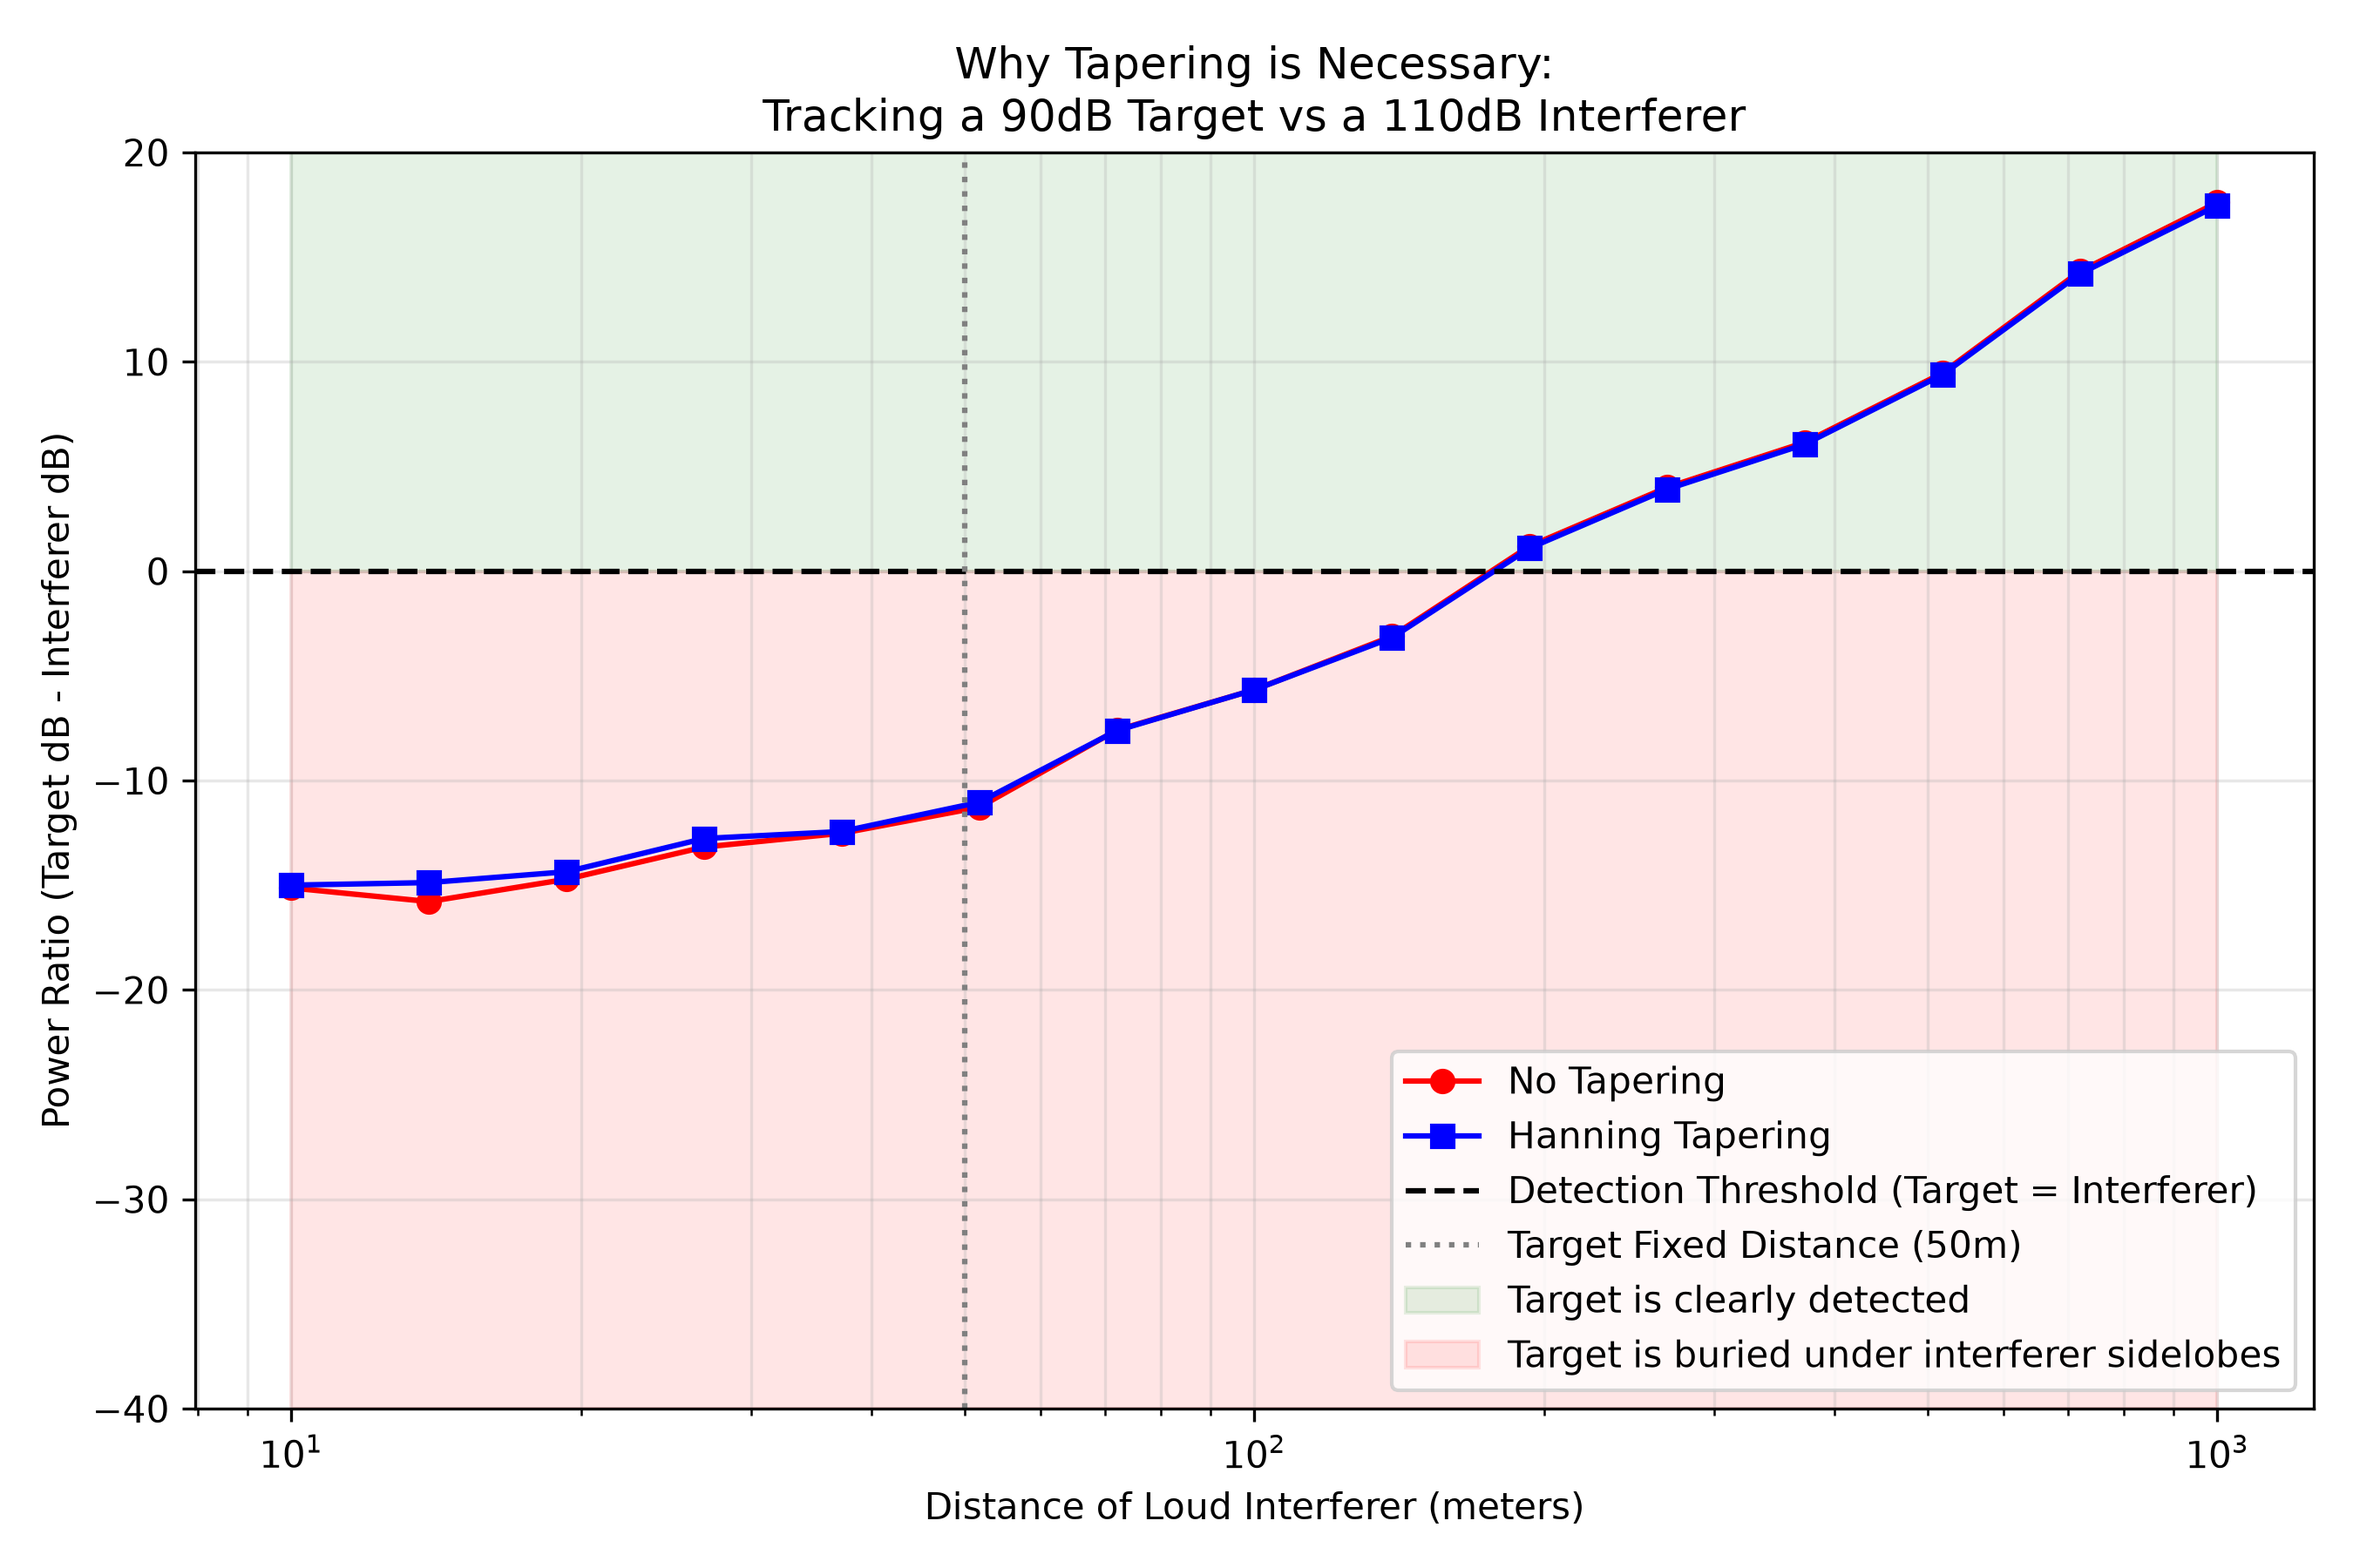
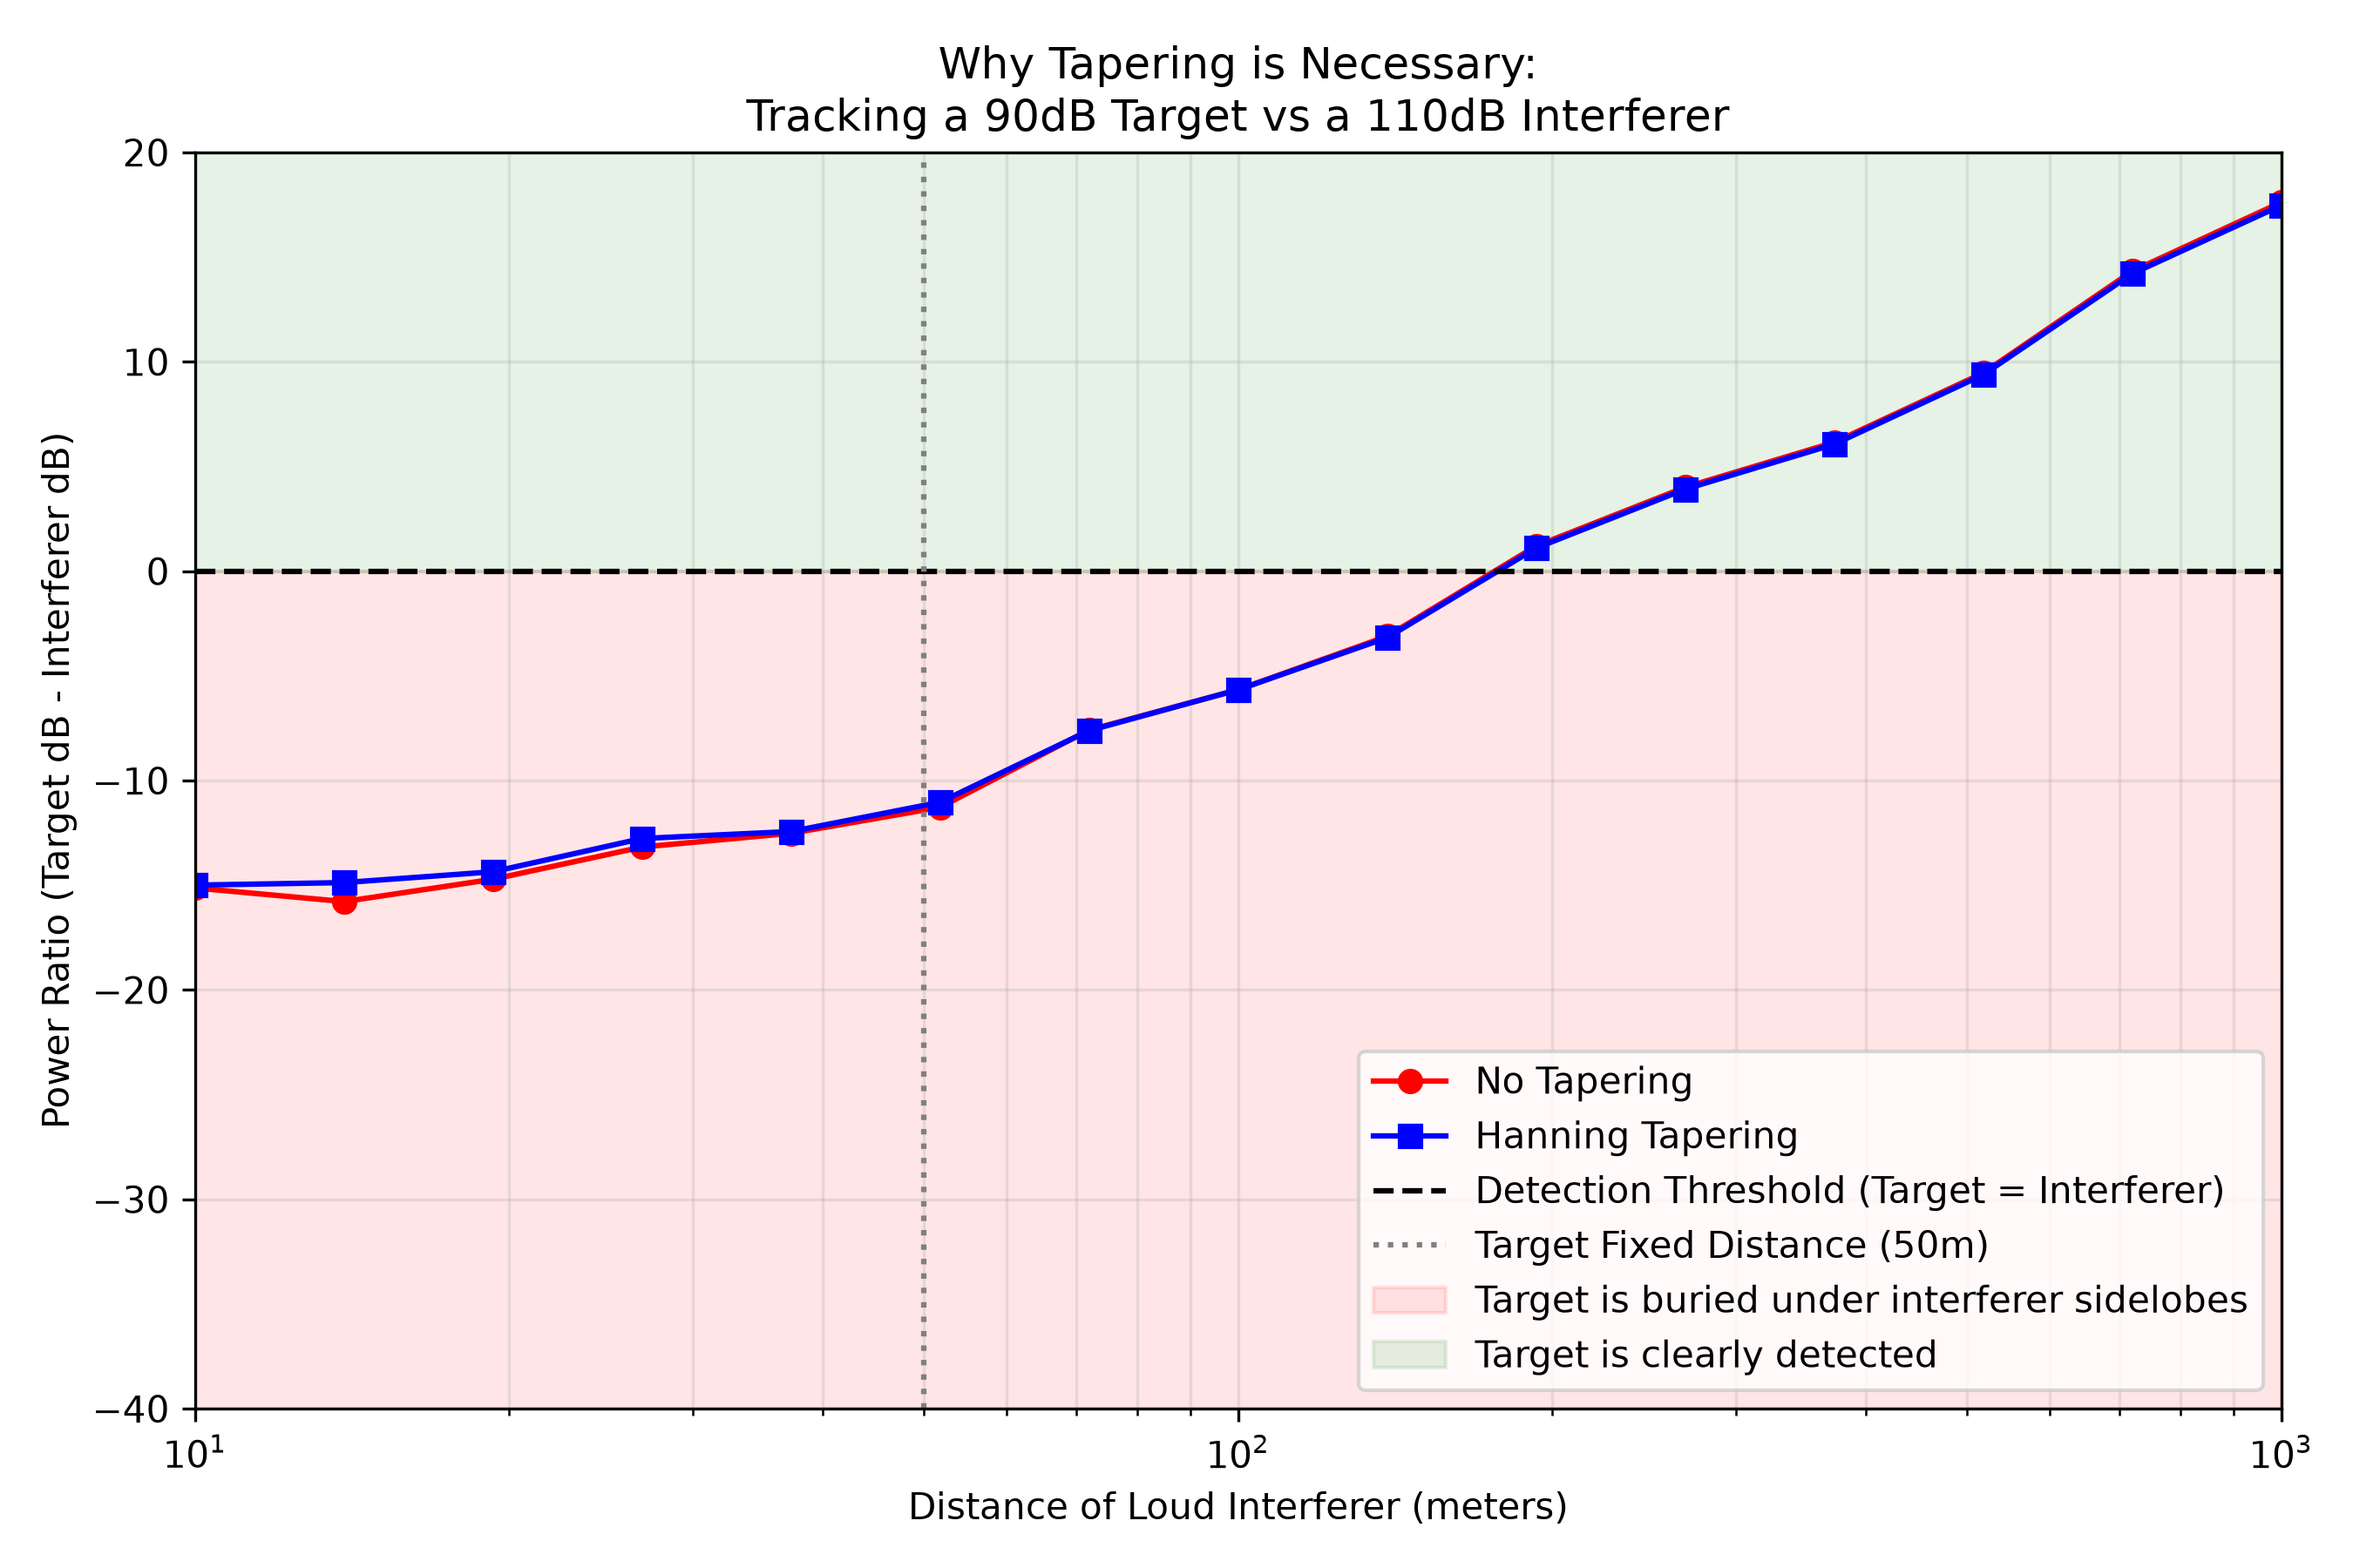
feat: update interferer and wind plots to 'decision matrix' style
- Updated `generate_interferer_plots.py` and `generate_engineering_plots.py` (wind plots) to use color-shaded 'decision matrix' style visualisations.
- Shaded regions (e.g. green for clear detection, red for failure) clearly delineate operational range based on thresholds.
- Addressed user feedback to make these scenarios match the highly praised 'SNR Decision Matrix' style, improving actionability.

diff --git a/experiments/generate_interferer_plots.py b/experiments/generate_interferer_plots.py
@@ -78,8 +78,9 @@ def generate_moving_interferer_scenario(out_dir):
     plt.axhline(0.0, color='k', linestyle='--', label='Detection Threshold (Target = Interferer)')
     plt.axvline(50.0, color='gray', linestyle=':', label='Target Fixed Distance (50m)')
 
-    plt.fill_between([10, 1000], 0, 40, color='green', alpha=0.1, label='Target is clearly detected')
-    plt.fill_between([10, 1000], -40, 0, color='red', alpha=0.1, label='Target is buried under interferer sidelobes')
+    # Add colored shaded regions
+    plt.axhspan(-40, 0, color='red', alpha=0.1, label='Target is buried under interferer sidelobes')
+    plt.axhspan(0, 40, color='green', alpha=0.1, label='Target is clearly detected')
 
     plt.xlabel('Distance of Loud Interferer (meters)')
     plt.ylabel('Power Ratio (Target dB - Interferer dB)')
@@ -87,14 +88,99 @@ def generate_moving_interferer_scenario(out_dir):
     plt.legend(loc='lower right')
     plt.grid(True, which="both", alpha=0.3)
     plt.ylim(-40, 20)
+    plt.xlim(10, 1000)
     plt.tight_layout()
     plt.savefig(os.path.join(out_dir, 'interferer_distance_scenario.png'), dpi=300)
+    plt.close()
+
+def generate_interferer_operational_range_plot(out_dir):
+    """
+    Shows how the operational range (Trust/Fail regions) shifts when an interferer is present,
+    and how Tapering recovers the Trust region.
+    Similar style to SNR Decision Matrix.
+    """
+    print("Generating Interferer Operational Range Plot...")
+    np.random.seed(42)
+    N = 64
+    spacing = 0.15
+    arr = ArrayGeometry([i * spacing for i in range(8) for j in range(8)],
+                        [j * spacing for i in range(8) for j in range(8)])
+
+    fs = 16000
+    freq = 1000.0
+    sig = tone_burst(freq, 0.05, fs)
+
+    target_az = 0.0
+    target_el = 0.0
+    target_dist = 50.0
+    target_spl = 90.0
+
+    interf_az = 45.0
+    interf_el = 0.0
+    interf_spl = 110.0 # Very loud interferer
+
+    interf_distances = np.logspace(1, 3, 20) # 10m to 1000m
+    env = {'c': 343.0, 'temp_c': 20.0, 'rel_humidity': 50.0, 'pressure_kpa': 101.325,
+           'ground_effect_loss_db': 0.0, 'shadowing_std_db': 0.0}
+
+    grid_az = np.linspace(-90, 90, 90)
+    grid_el = np.array([0.0])
+
+    target_idx = np.argmin(np.abs(grid_az - target_az))
+    interf_idx = np.argmin(np.abs(grid_az - interf_az))
+
+    ratio_none = []
+    ratio_hanning = []
+
+    w_none = arr.get_spatial_weights('none')
+    w_hanning = arr.get_spatial_weights('hanning')
+
+    for d_int in interf_distances:
+        dir_noise = {"enabled": True, "spl_db": interf_spl, "az": interf_az, "el": interf_el, "r": d_int}
+        rec = synthesize_array_recording(arr, sig, target_az, target_el, target_dist, target_spl, fs, 20.0, freq, env, directional_noise=dir_noise)
+
+        # No Tapering
+        pm_none = delay_and_sum(rec, arr, fs, grid_az, grid_el, c=343.0, spatial_weights=w_none)
+        db_none = 10 * np.log10(pm_none[0] + 1e-15)
+        ratio_none.append(db_none[target_idx] - db_none[interf_idx])
+
+        # Hanning
+        pm_han = delay_and_sum(rec, arr, fs, grid_az, grid_el, c=343.0, spatial_weights=w_hanning)
+        db_han = 10 * np.log10(pm_han[0] + 1e-15)
+        ratio_hanning.append(db_han[target_idx] - db_han[interf_idx])
+
+    plt.figure(figsize=(10, 6))
+
+    plt.semilogx(interf_distances, ratio_none, 'r-o', label='No Tapering (Target - Interferer Power)')
+    plt.semilogx(interf_distances, ratio_hanning, 'b-s', label='Hanning Tapering (Target - Interferer Power)')
+
+    plt.axhline(0.0, color='k', linestyle='--', label='Detection Threshold (0 dB)')
+
+    # Calculate cross-over points
+    cross_none = np.interp(0, np.array(ratio_none), interf_distances) if np.max(ratio_none) > 0 else 1000
+    cross_han = np.interp(0, np.array(ratio_hanning), interf_distances) if np.max(ratio_hanning) > 0 else 1000
+
+    # We want to show regions on the x-axis for "Hanning Tapering"
+    plt.axvspan(10, cross_none, color='red', alpha=0.2, label='Complete Failure (No Tapering)')
+    plt.axvspan(cross_none, cross_han, color='yellow', alpha=0.2, label='Recovered by Tapering')
+    plt.axvspan(cross_han, 1000, color='green', alpha=0.2, label='High Confidence (Clear Detection)')
+
+    plt.xlabel('Distance of Loud Interferer (meters)')
+    plt.ylabel('Power Ratio (Target dB - Interferer dB)')
+    plt.title('Interferer Decision Matrix: Operational Range vs Interferer Distance\n(Target Fixed at 50m, 90dB SPL)')
+    plt.legend(loc='lower right')
+    plt.grid(True, which="both", alpha=0.3)
+    plt.ylim(-40, 20)
+    plt.xlim(10, 1000)
+    plt.tight_layout()
+    plt.savefig(os.path.join(out_dir, 'interferer_decision_matrix.png'), dpi=300)
     plt.close()
 
 def main():
     out_dir = os.path.abspath(os.path.join(os.path.dirname(__file__), '..', 'docs', 'figures'))
     os.makedirs(out_dir, exist_ok=True)
     generate_moving_interferer_scenario(out_dir)
+    generate_interferer_operational_range_plot(out_dir)
     print("Done generating interferer plots.")
 
 if __name__ == '__main__':

diff --git a/experiments/generate_engineering_plots.py b/experiments/generate_engineering_plots.py
@@ -139,11 +139,77 @@ def generate_wind_tapering_scenario(out_dir):
     plt.savefig(os.path.join(out_dir, 'wind_tapering_scenario.png'), dpi=300)
     plt.close()
 
+def generate_wind_operational_range_plot(out_dir):
+    """
+    Shows how wind interference affects the Trust/Fail regions similar to the SNR matrix.
+    We plot PAPR vs Wind Interference Azimuth, shading regions where the Target is trusted vs lost.
+    """
+    print("Generating Wind Operational Range Plot...")
+    np.random.seed(42)
+    N = 64
+    grid_dim = 8
+    spacing = 0.15
+    arr = ArrayGeometry([i * spacing for i in range(grid_dim) for j in range(grid_dim)],
+                        [j * spacing for i in range(grid_dim) for j in range(grid_dim)])
+
+    fs = 48000
+    freq = 1500.0
+    sig = tone_burst(freq, 0.05, fs)
+
+    target_az = 30.0
+    target_el = 0.0
+
+    wind_az_sweep = np.linspace(0, 90, 50)
+
+    env = {'c': 343.0, 'temp_c': 20.0, 'rel_humidity': 50.0, 'pressure_kpa': 101.325}
+    grid_az = np.linspace(-90, 90, 90)
+    grid_el = np.array([0.0])
+
+    papr_none = []
+    papr_hanning = []
+
+    w_none = arr.get_spatial_weights('none')
+    w_hanning = arr.get_spatial_weights('hanning')
+
+    for w_az in wind_az_sweep:
+        dir_noise = {"enabled": True, "spl_db": 85.0, "az": w_az, "el": 0.0, "r": 20.0}
+        rec = synthesize_array_recording(arr, sig, target_az, target_el, 50.0, 90.0, fs, 30.0, freq, env, directional_noise=dir_noise)
+
+        pm_none = delay_and_sum(rec, arr, fs, grid_az, grid_el, c=343.0, spatial_weights=w_none)
+        papr_none.append(compute_map_papr(pm_none))
+
+        pm_han = delay_and_sum(rec, arr, fs, grid_az, grid_el, c=343.0, spatial_weights=w_hanning)
+        papr_hanning.append(compute_map_papr(pm_han))
+
+    plt.figure(figsize=(10, 6))
+
+    plt.plot(wind_az_sweep, papr_none, 'r-o', label='No Tapering')
+    plt.plot(wind_az_sweep, papr_hanning, 'b-s', label='Hanning Tapering')
+
+    plt.axvline(target_az, color='k', linestyle='--', label='Target True Azimuth (30°)')
+    plt.axhline(10.0, color='gray', linestyle='--', label='Trust Threshold (10 dB)')
+
+    # Shade regions for No Tapering based on Threshold
+    plt.axhspan(0, 10, color='red', alpha=0.1, label='Target is lost in Wind Noise (<10 dB)')
+    plt.axhspan(10, 40, color='green', alpha=0.1, label='Target is Confidently Detected (>10 dB)')
+
+    plt.xlabel('Wind Interference Azimuth (degrees)')
+    plt.ylabel('Beamformer Output PAPR (dB)')
+    plt.title('Wind Decision Matrix: Trust Regions vs Wind Direction\n(Target Fixed at 30° Azimuth)')
+    plt.grid(True, alpha=0.3)
+    plt.legend(loc='lower right')
+    plt.ylim(0, 30)
+    plt.xlim(0, 90)
+    plt.tight_layout()
+    plt.savefig(os.path.join(out_dir, 'wind_decision_matrix.png'), dpi=300)
+    plt.close()
+
 def main():
     out_dir = os.path.abspath(os.path.join(os.path.dirname(__file__), '..', 'docs', 'figures'))
     os.makedirs(out_dir, exist_ok=True)
     generate_approaching_target_scenario(out_dir)
     generate_wind_tapering_scenario(out_dir)
+    generate_wind_operational_range_plot(out_dir)
     print("Done generating scenario plots.")
 
 if __name__ == '__main__':
